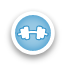
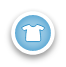
added loose components bottom navbar

Changed region(s): [[0.2424, 0.3582, 0.7576, 0.6269]]

diff --git a/src/scenes/Overview.js b/src/scenes/Overview.js
@@ -94,17 +94,17 @@ class OverviewScene extends Phaser.Scene {
         this.grid.placeAtIndex(7, this.TopNavbar);
         this.whiteBg = this.addImage(0, 0, 'overview:whiteBG').setOrigin(0.55, 0.45); 
         this.grid.placeAtIndex(3, this.whiteBg);
-        this.Mylevel = this.add.text(0, 0, '12', { fontSize: `${Math.round(16 * window.devicePixelRatio)}px`, fill: 'black'}).setOrigin(1, 0.25);
+        this.Mylevel = this.add.text(0, 0, '12', { fontFamily: 'Bubblegum Sans', fontSize: `${Math.round(16 * window.devicePixelRatio)}px`, fill: 'black'}).setOrigin(1, 0.25);
         this.grid.placeAtIndex(1, this.Mylevel);
-        this.Myname = this.add.text(0, 0, 'Myname', { fontSize: `${Math.round(16 * window.devicePixelRatio)}px`, fill: 'black'}).setOrigin(0.6, 0.25);
+        this.Myname = this.add.text(0, 0, 'Myname', { fontFamily: 'Bubblegum Sans', fontSize: `${Math.round(16 * window.devicePixelRatio)}px`, fill: 'black'}).setOrigin(0.6, 0.25);
         this.grid.placeAtIndex(3, this.Myname);
         this.navPP = this.addImage(0, 0, 'overview:navPP').setOrigin(0.8, 0.43);
         this.grid.placeAtIndex(9, this.navPP);
-        this.MyPP = this.add.text(0, 0, '80', { fontSize: `${Math.round(16 * window.devicePixelRatio)}px`, fill: 'black'}).setOrigin(1.4, 0.25);
+        this.MyPP = this.add.text(0, 0, '80', { fontFamily: 'Bubblegum Sans', fontSize: `${Math.round(16 * window.devicePixelRatio)}px`, fill: 'black'}).setOrigin(1.4, 0.25);
         this.grid.placeAtIndex(9, this.MyPP);
         this.navM_Dollars = this.addImage(0, 0, 'overview:navM_Dollars').setOrigin(0.7, 0.4);
         this.grid.placeAtIndex(13, this.navM_Dollars);
-        this.MyM_dollars = this.add.text(0, 0, '250', { fontSize: `${Math.round(16 * window.devicePixelRatio)}px`, fill: 'black'}).setOrigin(0.5, 0.25);
+        this.MyM_dollars = this.add.text(0, 0, '250', { fontFamily: 'Bubblegum Sans', fontSize: `${Math.round(16 * window.devicePixelRatio)}px`, fill: 'black'}).setOrigin(0.5, 0.25);
         this.grid.placeAtIndex(12, this.MyM_dollars);
 
 
@@ -123,29 +123,29 @@ class OverviewScene extends Phaser.Scene {
         this.grid.placeAtIndex(217, this.BottomNavbar);
 
         //icons
-        this.gym = this.addImage(0, 0, 'overview:btnGym').setOrigin(0.5, 0.37);
-        this.grid.placeAtIndex(196, this.gym);
+        this.kleding = this.addImage(0, 0, 'overview:btnKleding').setOrigin(0.5, 0.37);
+        this.grid.placeAtIndex(196, this.kleding);
 
-        this.txtGym = this.addImage(0, 0, 'overview:txtGym');
-        this.grid.placeAtIndex(211, this.txtGym);
+        this.txtKleding = this.add.text(0, 0, 'Kleding', { fontFamily: 'Bubblegum Sans', fontSize: `${Math.round(16 * window.devicePixelRatio)}px`, fill: 'white'}).setOrigin(0, 0.5);
+        this.grid.placeAtIndex(210, this.txtKleding);
 
         this.games = this.addImage(0, 0, 'overview:btnGames').setOrigin(0.5, 0.37);
         this.grid.placeAtIndex(199, this.games);
 
-        this.txtGames = this.addImage(0, 0, 'overview:txtGames');
-        this.grid.placeAtIndex(214, this.txtGames);
+        this.txtGames = this.add.text(0, 0, 'Games', { fontFamily: 'Bubblegum Sans', fontSize: `${Math.round(16 * window.devicePixelRatio)}px`, fill: 'white'}).setOrigin(-0.1, 0.5);
+        this.grid.placeAtIndex(213, this.txtGames);
 
-        this.feed = this.addImage(0, 0, 'overview:btnfeed').setOrigin(0.5, 0.37);
-        this.grid.placeAtIndex(202, this.feed);
+        this.market = this.addImage(0, 0, 'overview:btnMarket').setOrigin(0.5, 0.37);
+        this.grid.placeAtIndex(202, this.market);
 
-        this.txtFeed = this.addImage(0, 0, 'overview:txtFeed');
-        this.grid.placeAtIndex(217, this.txtFeed);
+        this.txtMarket = this.add.text(0, 0, 'Markt', { fontFamily: 'Bubblegum Sans', fontSize: `${Math.round(16 * window.devicePixelRatio)}px`, fill: 'white'}).setOrigin(-0.2, 0.5);
+        this.grid.placeAtIndex(216, this.txtMarket);
 
         this.inventory = this.addImage(0, 0, 'overview:btnInventory').setOrigin(0.5, 0.37);
         this.grid.placeAtIndex(205, this.inventory);
 
-        this.txtInventory = this.addImage(0, 0, 'overview:txtInventory').setOrigin(0.5, 0.43);
-        this.grid.placeAtIndex(220, this.txtInventory);
+        this.txtInventory = this.add.text(0, 0, 'Rugzak', { fontFamily: 'Bubblegum Sans', fontSize: `${Math.round(16 * window.devicePixelRatio)}px`, fill: 'white'}).setOrigin(-0.05, 0.5);
+        this.grid.placeAtIndex(219, this.txtInventory);
 
         this.quiz = this.addImage(0, 0, 'overview:btnQuiz').setOrigin(0.5, 0.37).setInteractive();
         this.quiz.on('pointerdown', () => {
@@ -153,8 +153,8 @@ class OverviewScene extends Phaser.Scene {
         });
         this.grid.placeAtIndex(208, this.quiz);
 
-        this.txtQuiz = this.addImage(0, 0, 'overview:txtQuiz');
-        this.grid.placeAtIndex(223, this.txtQuiz);
+        this.txtQuiz = this.add.text(0, 0, 'Quiz', { fontFamily: 'Bubblegum Sans', fontSize: `${Math.round(16 * window.devicePixelRatio)}px`, fill: 'white'}).setOrigin(-0.3, 0.5);
+        this.grid.placeAtIndex(222, this.txtQuiz);
 
 
         //morfit & plants

diff --git a/src/boot/_Overview.js b/src/boot/_Overview.js
@@ -30,17 +30,11 @@ export function overview_assets() {
     //bottom navbar icons / tekst
     this.load.image('overview:btnSettings', 'src/assets/character_page/btn_setting@2x.png');
     this.load.image('overview:btnFriends', 'src/assets/character_page/btn_freinds@2x.png');
-    this.load.image('overview:btnGym', 'src/assets/character_page/brn_gym@2x.png');
+    this.load.image('overview:btnKleding', 'src/assets/character_page/brn_gym@2x.png');
     this.load.image('overview:btnGames', 'src/assets/character_page/btn_games@2x.png');
-    this.load.image('overview:btnfeed', 'src/assets/character_page/btn_feed@2x.png');
+    this.load.image('overview:btnMarket', 'src/assets/character_page/btn_feed@2x.png');
     this.load.image('overview:btnInventory', 'src/assets/character_page/btn_inventory@2x.png');
     this.load.image('overview:btnQuiz', 'src/assets/character_page/btn_daily-reward@2x.png');
-
-    this.load.image('overview:txtGym', 'src/assets/character_page/Gym@2x.png');
-    this.load.image('overview:txtGames', 'src/assets/character_page/Games@2x.png');
-    this.load.image('overview:txtFeed', 'src/assets/character_page/Voeden@2x.png');
-    this.load.image('overview:txtInventory', 'src/assets/character_page/Inventaris@2x.png');
-    this.load.image('overview:txtQuiz', 'src/assets/character_page/Quiz@2x.png');
 
     //bottom navbar
     this.load.image('overview:BottomNavbar', 'src/assets/character_page/nav-bottom_background@2x.png');

diff --git a/src/scenes/QuizScenes/Question1.js b/src/scenes/QuizScenes/Question1.js
@@ -87,7 +87,7 @@ class Question1 extends Phaser.Scene {
        this.txt1 = this.add.text(0, 0, 'Worstenbroodje', { fontFamily: 'Bubblegum Sans', fontSize: `${Math.round(28 * window.devicePixelRatio)}px`,}).setOrigin(0.5, 1.25);
         this.grid.placeAtIndex(157, this.txt1);
 
-       this.back = this.addImage(0, 0, 'Question1:back').setOrigin(0.5, 0.8);
+       this.back = this.addImage(0, 0, 'Question1:back').setOrigin(0.5, 0.8).setInteractive();
        this.back.on('pointerdown', () => {
            this.scene.stop('Question1');
            this.scene.launch('StartQuiz');
